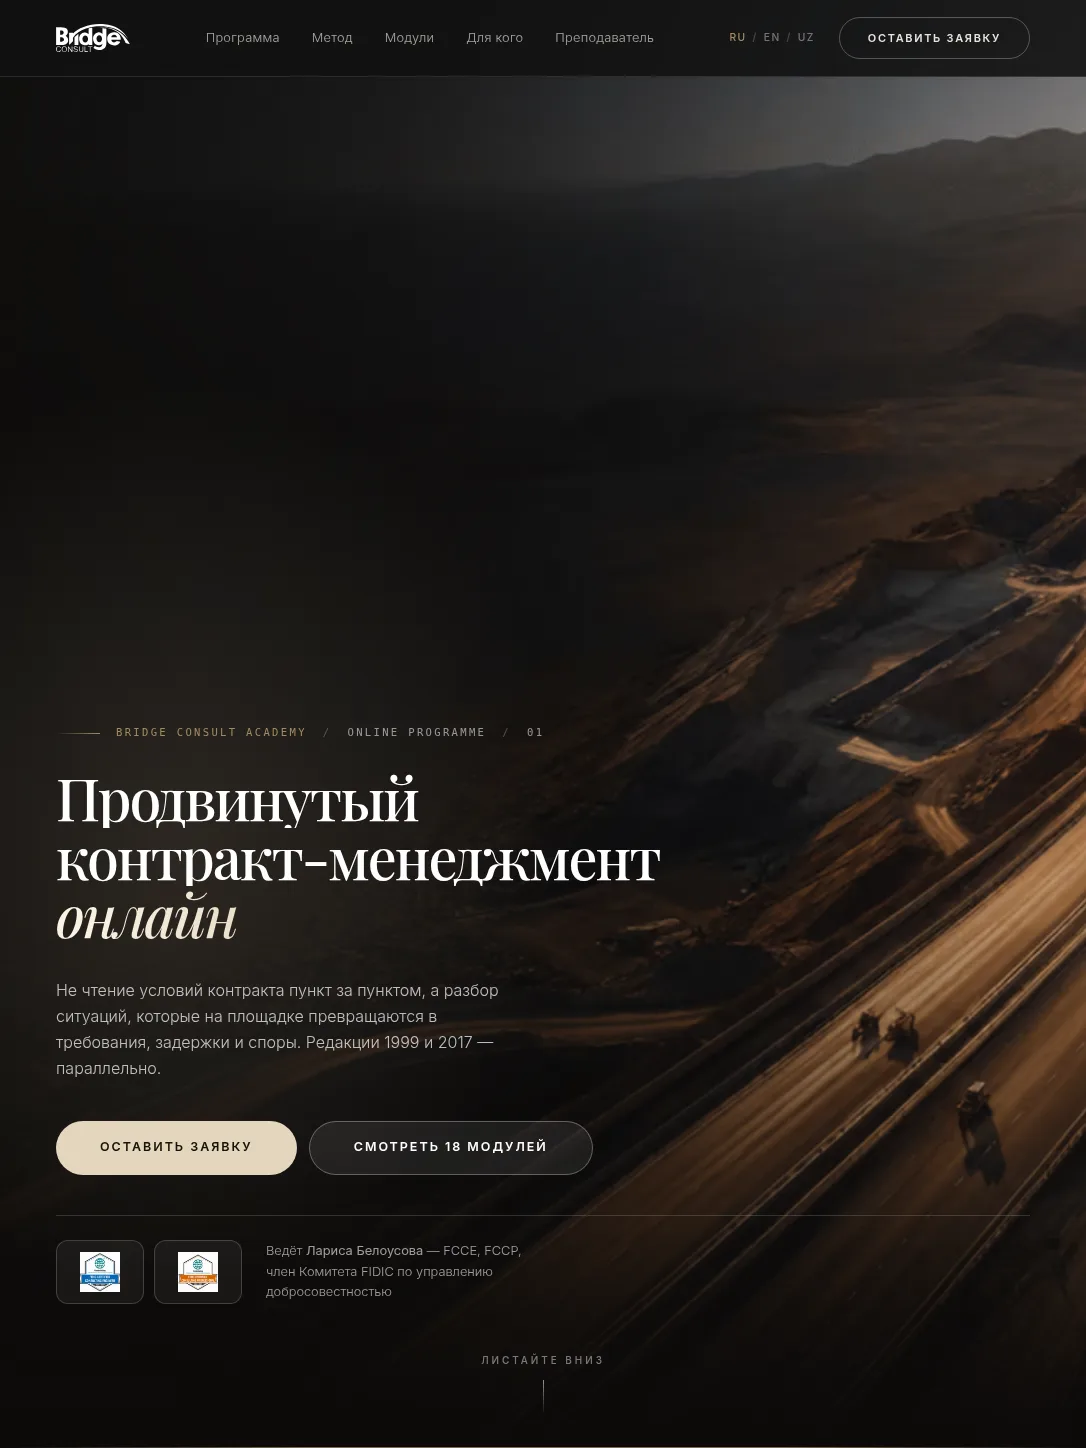
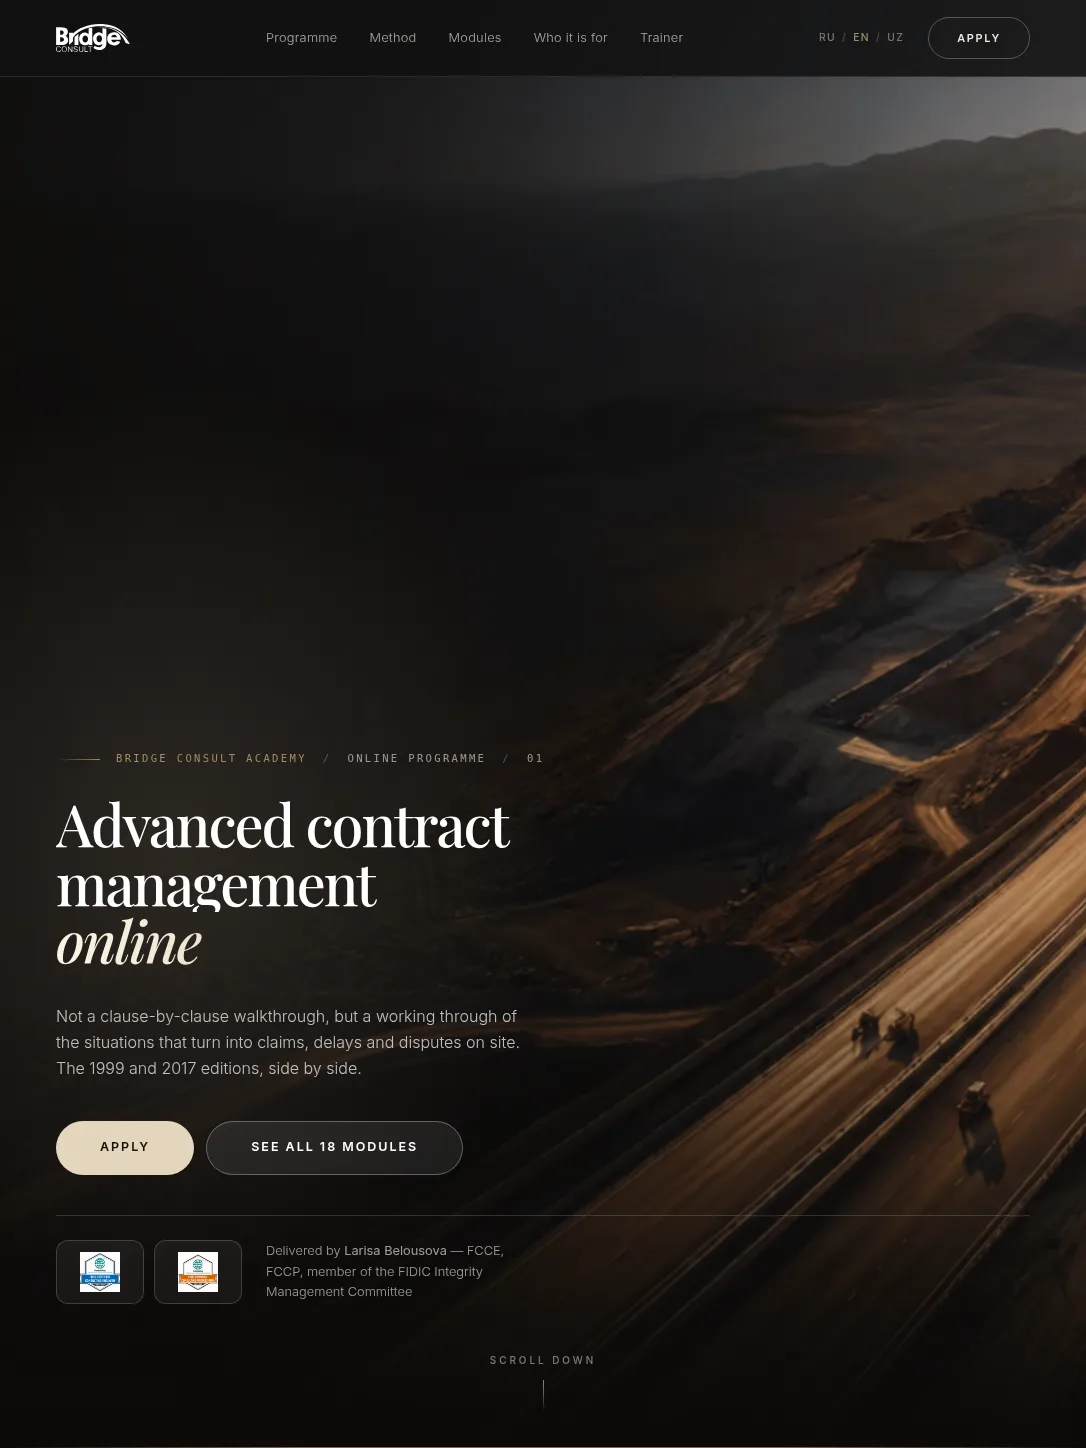
fix: four things adding a third case broke
**The cards overlapped.** The selected-work stage was composed for exactly two
cards — two absolute positions, `nth-child(1)` and `(2)`, and nothing for a
third. The Academy card fell to the stage origin at the same z-index and, being
later in the DOM, painted straight over Bridge Consult: the one case a visitor
most needs to see. Three positions now, with the depth order stated rather than
left to document order — Bridge in front, FIDIC behind it, the small one set
back and smaller, which is also what it is next to two multilingual platforms.
Hovering the back card brings it forward, since the pointer should not land on
a card that cannot be read. The stage is taller to hold the cascade, and the
third card's height is fixed with its blurb clamped, because its text is the
longest of the three and an auto-growing card ran out of the bottom.

The pointer parallax was written for a pair too: `index === 0 ? 1 : -1` made the
third card track its neighbour instead of holding its own plane. Direction and
drift now follow depth order, on desktop and on the mobile scroll path.

**The heading said "two".** "Two marketing builds" / "Zwei Marketing-Builds" with
three cases under it. Rewritten around the range rather than the count — one
page or four hundred, same standard — which is also the positioning fix: the
lead now names the single-page landing first, so a business that needs five
pages does not read this section and conclude it is the wrong size of client.
[…]

diff --git a/src/i18n/ui.ts b/src/i18n/ui.ts
@@ -126,8 +126,8 @@ export const ui = {
 
     // ── Selected Work (teaser — immersive cases land next) ───────────────────
     "work.label": "Selected Work",
-    "work.title": "Two marketing builds. One standard: premium.",
-    "work.text": "Two digital systems I conceived and built solo: strategy, content, technical SEO and the Astro front-end from one hand — and both still maintained, in production, with the search results to check.",
+    "work.title": "One page or four hundred. Same standard.",
+    "work.text": "Three projects I conceived and built solo — a single-page landing, a growth system and a 429-page platform: strategy, content, technical SEO and the Astro front-end from one hand. All three are in production, and the search results are there to check.",
     "work.1.tag": "Astro · GSAP · Technical SEO",
     "work.1.title": "Bridge Consult",
     "work.1.role": "Solo build · Strategy, code & SEO",
@@ -560,6 +560,7 @@ export const ui = {
     "footer.tagline": "Digital Marketer · Creative Developer · Vienna",
     "footer.status": "Available for projects",
     "footer.nav.label": "Navigate",
+    "footer.more.label": "More",
     "footer.social.label": "Elsewhere",
     "footer.colophon": "How this site is built",
     "footer.profile": "Profile & experience · Vienna",
@@ -697,8 +698,8 @@ export const ui = {
 
     // ── Selected Work (teaser — immersive cases land next) ───────────────────
     "work.label": "Ausgewählte Arbeiten",
-    "work.title": "Zwei Marketing-Builds. Ein Standard: erstklassig.",
-    "work.text": "Zwei digitale Systeme, die ich solo konzipiert und gebaut habe: Strategie, Content, Technical SEO und das Astro-Frontend aus einer Hand — und beide laufen weiter, in Produktion, mit nachprüfbaren Suchergebnissen.",
+    "work.title": "Eine Seite oder vierhundert. Derselbe Standard.",
+    "work.text": "Drei Projekte, die ich solo konzipiert und gebaut habe — eine einseitige Landingpage, ein Growth-System und eine Plattform mit 429 Seiten: Strategie, Content, Technical SEO und das Astro-Frontend aus einer Hand. Alle drei laufen in Produktion, und die Suchergebnisse sind nachprüfbar.",
     "work.1.tag": "Astro · GSAP · Technical SEO",
     "work.1.title": "Bridge Consult",
     "work.1.role": "Solo Build · Strategie, Code & SEO",
@@ -1127,6 +1128,7 @@ export const ui = {
     "footer.tagline": "Digital Marketer · Creative Developer · Wien",
     "footer.status": "Verfügbar für Projekte",
     "footer.nav.label": "Navigation",
+    "footer.more.label": "Mehr",
     "footer.social.label": "Anderswo",
     "footer.colophon": "Wie diese Seite gebaut ist",
     "footer.profile": "Profil & Berufserfahrung · Wien",
